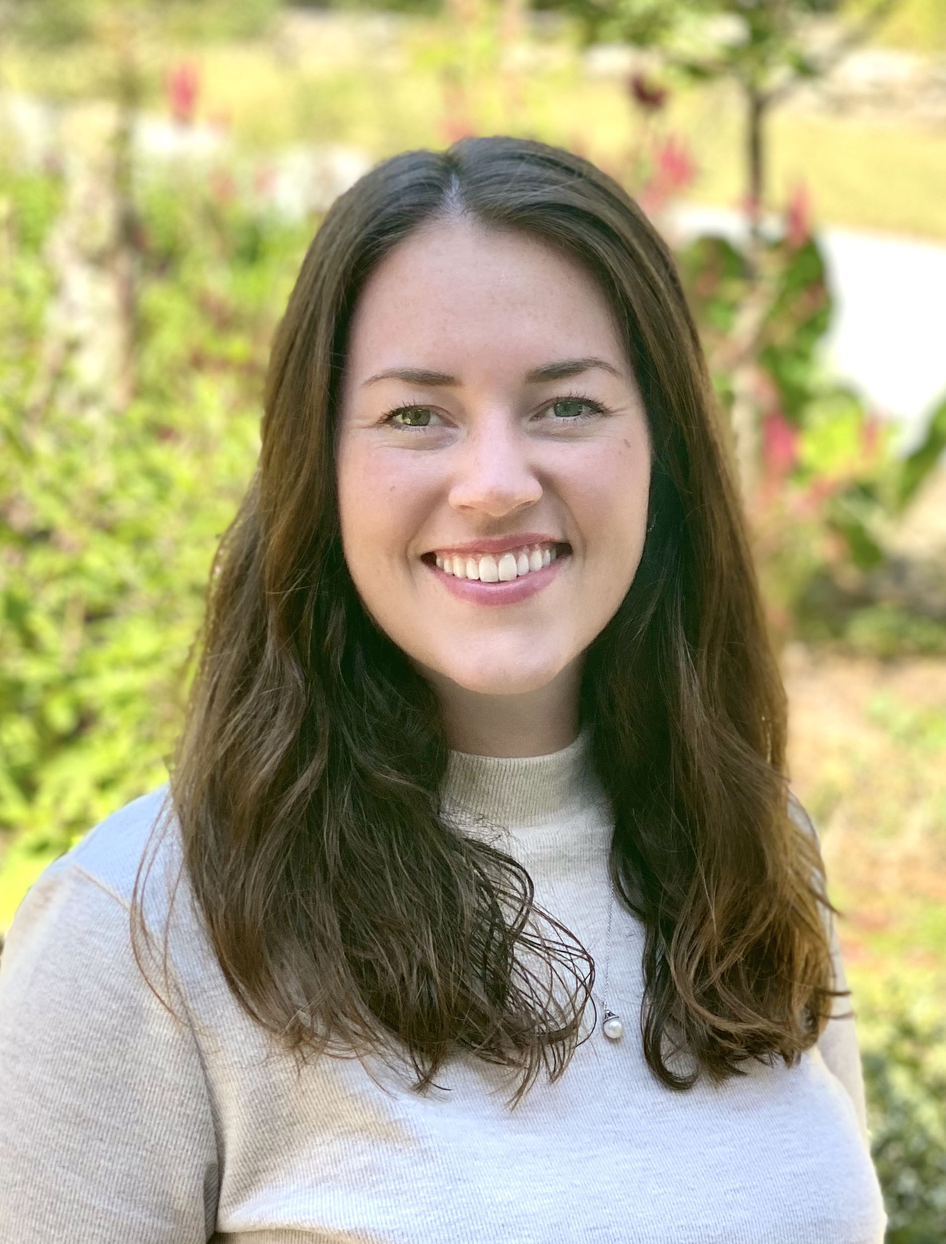
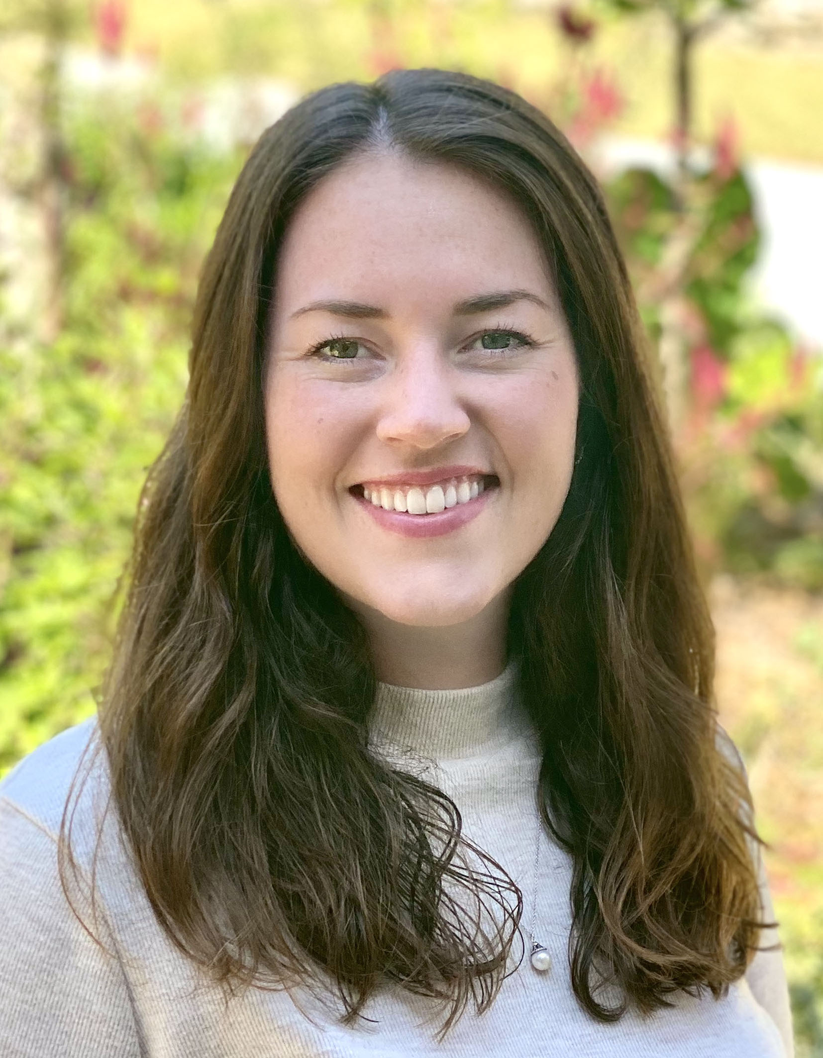
edited profile photo and contact page

diff --git a/src/components/pages/Contact.js b/src/components/pages/Contact.js
@@ -11,7 +11,7 @@ function Contact() {
       <main className="container" id="contact-section">
         <h2>Contact</h2>
         <hr />
-        <h5>Get in touch with me at the following avenues...</h5>
+        <p className="contact-text">Get in touch!</p>
         <div className="contact-icons row">
           <div className="contact-div col-sm-4">
             <div className="background-img">

diff --git a/src/styles/style.css b/src/styles/style.css
@@ -110,3 +110,10 @@ hr {
   justify-content: center;
   align-items: center;
 }
+
+.contact-text {
+  display: flex;
+  justify-content: center;
+  align-items: center;
+  font-size: 20px;
+}
